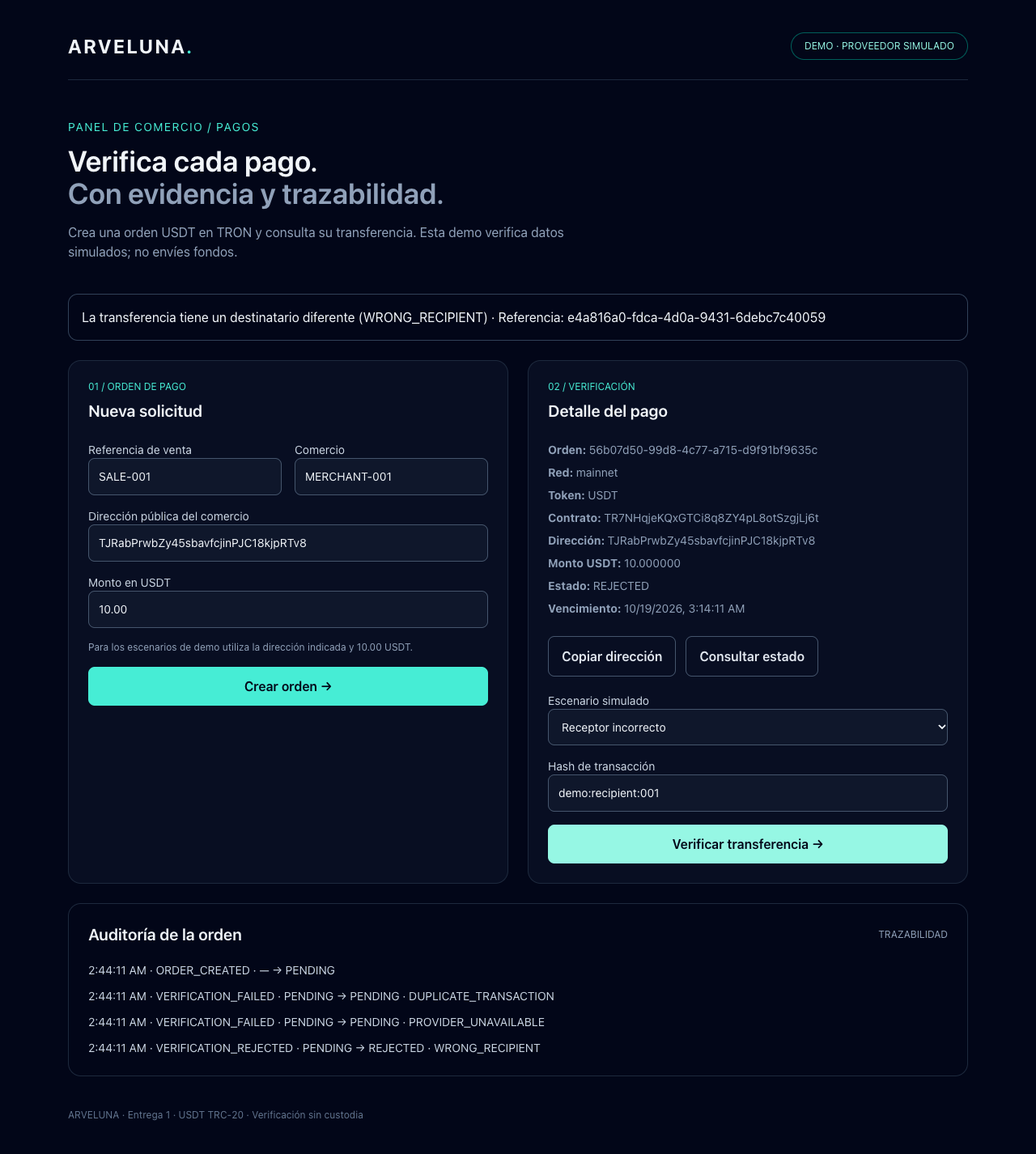
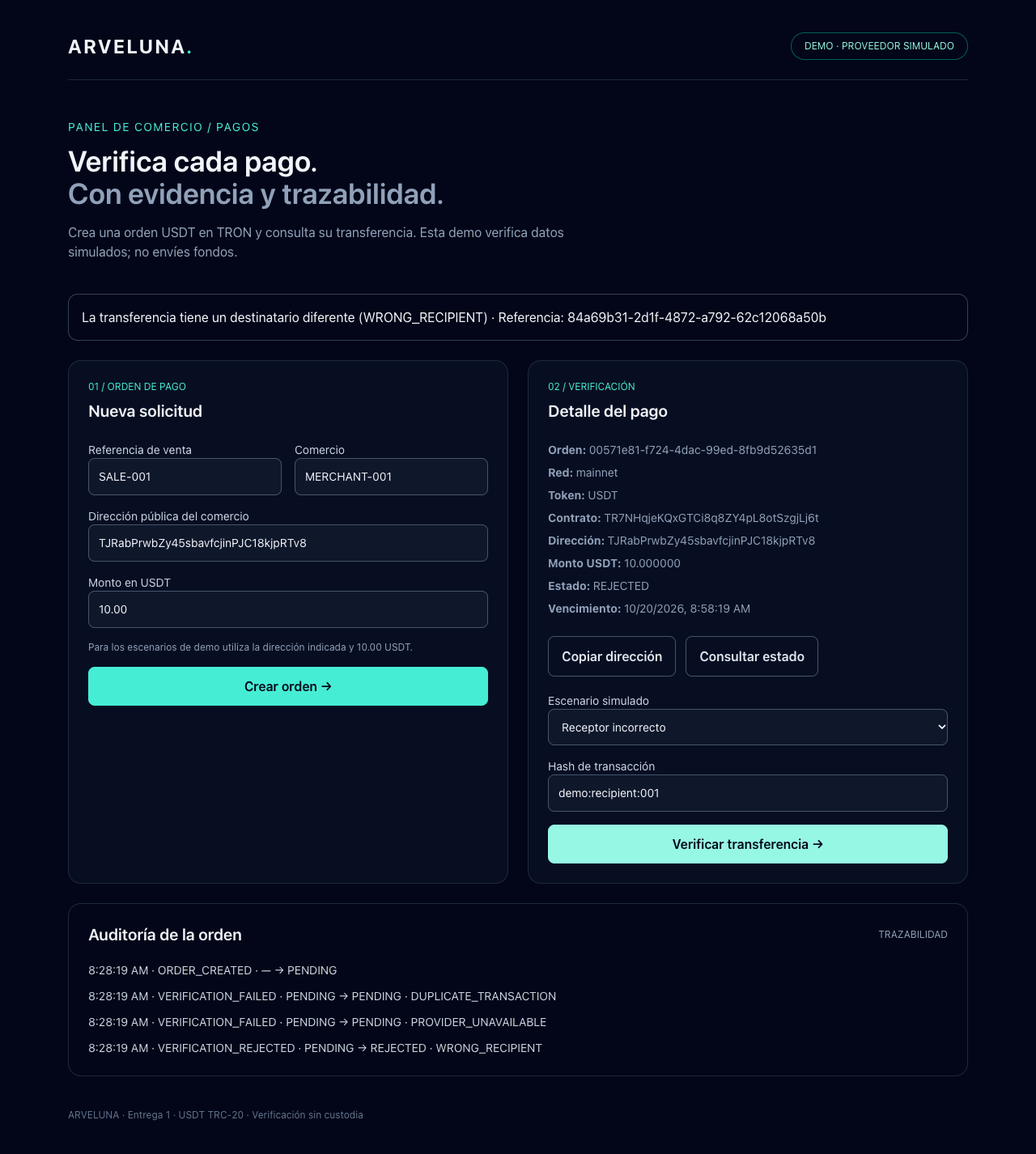
docs: prepare ARVELUNA university delivery

diff --git a/scripts/package-delivery.py b/scripts/package-delivery.py
@@ -1,0 +1,80 @@
+"""Genera el paquete académico desde una lista explícita de fuentes y lo verifica."""
+from pathlib import Path
+import hashlib
+import re
+import shutil
+import tempfile
+import zipfile
+
+ROOT = Path(__file__).resolve().parent.parent
+NAME = 'ENTREGA_1_ARVELUNA'
+DEST = ROOT / NAME
+ARCHIVE = ROOT / 'ARVELUNA_Entrega_1.zip'
+ROOT_FILES = ['README.md', 'ENTREGA.md', 'AGENTS.md', '.env.example', '.gitignore',
+              'package.json', 'package-lock.json', 'docker-compose.yml',
+              'eslint.config.mjs', 'playwright.config.ts']
+DIRECTORIES = ['backend', 'frontend', 'docs', 'scripts']
+FORBIDDEN = {'node_modules', '.git', 'dist', 'coverage', 'test-results',
+             'playwright-report', '__pycache__', '.DS_Store', '.env'}
+EXTENSIONS = {'.md', '.ts', '.js', '.mjs', '.json', '.html', '.css', '.prisma',
+              '.sql', '.toml', '.yml', '.yaml', '.png', '.py', '.txt'}
+
+def selected():
+    result = [Path(name) for name in ROOT_FILES]
+    for directory in DIRECTORIES:
+        for path in (ROOT / directory).rglob('*'):
+            relative = path.relative_to(ROOT)
+            if any(part in FORBIDDEN for part in relative.parts):
+                continue
+            if path.is_file() and path.suffix in EXTENSIONS and relative.as_posix() != 'frontend/public/output.css':
+                if path.is_symlink():
+                    raise RuntimeError(f'Enlace simbólico no permitido: {relative}')
+                result.append(relative)
+    return sorted(set(result))
+
+# El manifiesto está dentro y fuera del ZIP y enumera todos los miembros.
+manifest = ROOT / 'docs/zip-files.txt'
+manifest.touch(exist_ok=True)
+paths = selected()
+manifest.write_text('\n'.join(f'{NAME}/{path.as_posix()}' for path in paths) + '\n')
+if DEST.exists():
+    extras = {p.relative_to(DEST) for p in DEST.rglob('*') if p.is_file()} - set(paths)
+    if extras:
+        raise RuntimeError('La carpeta de entrega contiene archivos ajenos; no se sobrescriben')
+for relative in paths:
+    target = DEST / relative
+    target.parent.mkdir(parents=True, exist_ok=True)
+    shutil.copy2(ROOT / relative, target)
+
+with zipfile.ZipFile(ARCHIVE, 'w', zipfile.ZIP_DEFLATED, compresslevel=9) as archive:
+    for relative in paths:
+        archive.write(DEST / relative, f'{NAME}/{relative.as_posix()}')
+
+patterns = [rb'-----BEGIN (?:RSA |EC |OPENSSH )?PRIVATE KEY-----',
+            rb'AKIA[0-9A-Z]{16}', rb'gh[pousr]_[A-Za-z0-9]{30,}',
+            rb'sk-(?:proj-)?[A-Za-z0-9_-]{30,}']
+extract = Path(tempfile.mkdtemp(prefix='arveluna-zip-review-'))
+with zipfile.ZipFile(ARCHIVE) as archive:
+    assert archive.testzip() is None, 'CRC inválido'
+    assert archive.namelist() == manifest.read_text().splitlines()
+    for item in archive.infolist():
+        path = Path(item.filename)
+        assert not path.is_absolute() and '..' not in path.parts
+        assert path.parts[0] == NAME
+        assert not any(part in FORBIDDEN for part in path.parts)
+        assert not path.name.endswith(('.log', '.zip', '.pem', '.key', '.tmp'))
+        assert not (path.name.startswith('.env') and path.name != '.env.example')
+        data = archive.read(item)
+        # Imágenes se conservan como evidencia; escaneo de secretos en texto.
+        if path.suffix != '.png':
+            assert not any(re.search(pattern, data) for pattern in patterns), f'Posible secreto: {path}'
+            text = data.decode('utf-8')
+            for password in re.findall('mysql' + r'://[^:\s]+:([^@\s]+)@', text):
+                assert password in {'REEMPLAZAR_CON_MYSQL_PASSWORD', '${password}'} or (path.name == 'AGENTS.md' and password == 'arveluna'), f'Credencial en URL: {path}'
+    archive.extractall(extract)
+for relative in paths:
+    assert (extract / NAME / relative).read_bytes() == (ROOT / relative).read_bytes()
+Path('/tmp/arveluna-final-extracted-path').write_text(str(extract / NAME))
+print(f'ZIP: {ARCHIVE.name}; archivos: {len(paths)}; CRC, extracción, comparación byte a byte y escaneo: OK')
+print(f'SHA-256: {hashlib.sha256(ARCHIVE.read_bytes()).hexdigest()}')
+print(f'Copia extraída para prueba: {extract / NAME}')

diff --git a/docs/verification.md b/docs/verification.md
@@ -1,49 +1,52 @@
-# Evidencia de verificación — 19 de octubre de 2026
+# Verificación final — 20 de octubre de 2026
 
-Entorno: macOS ARM64, Node v24.21.0, npm 11.19.0, Docker Desktop / MySQL 8.4, Chrome instalado. Proveedor simulado; no API key ni acceso a blockchain en las pruebas.
+Entorno ejecutado: macOS ARM64, Node v24.21.0, npm 11.19.0, Docker Desktop, MySQL 8.4 y Chrome. Zona de referencia: America/Bogota. Proveedor operativo: simulado. TronGrid permanece como extensión pendiente y no fue probado ni presentado como implementado.
 
-| Comprobación ejecutada            | Resultado final                                                                       |
-| --------------------------------- | ------------------------------------------------------------------------------------- |
-| `npm install`                     | Dependencias de workspaces instaladas y lockfile generado                             |
-| `npm ci` en `/tmp/arveluna-clean` | Instalación limpia sin node_modules ni .env originales; 0 vulnerabilidades reportadas |
-| `npm run db:generate`             | Prisma Client 6.19.3 generado                                                         |
-| `docker compose up -d --wait`     | MySQL iniciado y Healthy                                                              |
-| `npm run db:migrate`              | Migración `202610190001_init` aplicada; repetición sin migraciones pendientes         |
-| `npm run db:seed`                 | Upsert de orden determinista; repetición sin errores                                  |
-| `npm run build`                   | TypeScript estricto y frontend Vite/Tailwind CLI compilados                           |
-| `npm run lint`                    | ESLint y comprobación de dependencias arquitectónicas sin errores                     |
-| `npm test`                        | 18 pruebas, 18 pasan, 0 fallan                                                        |
-| `npm run test:e2e`                | 2 pruebas, 2 pasan: HTTP real, Prisma/MySQL y desconexión del servicio                |
-| `npm run test:browser`            | 2 pruebas, 2 pasan: flujo completo Chrome y renderizado de los 4 diagramas Mermaid    |
-| `npm audit fix` final             | 0 vulnerabilidades; dependencias resueltas en package-lock.json                       |
-| `git check-ignore`                | .env, CSS generado y dist excluidos                                                   |
+## Resultados ejecutados
 
-La copia limpia se creó excluyendo node_modules, .git, .env, dist y resultados de pruebas. Se copió `.env.example` como `.env`. Con el lockfile final se ejecutaron `npm ci`, generación Prisma, build, lint y las 18 pruebas unitarias. Las pruebas HTTP y de navegador se ejecutaron en el proyecto principal con el mismo lockfile y MySQL local.
+| Comprobación                                         | Resultado real                                                                                                                        |
+| ---------------------------------------------------- | ------------------------------------------------------------------------------------------------------------------------------------- |
+| Lectura completa de AGENTS.md y `git status` inicial | Rama main, árbol limpio, commit base `8e8d39b`; sin cambios existentes que sobrescribir                                               |
+| `npm install --package-lock-only --ignore-scripts`   | Lockfile sincronizado, 0 vulnerabilidades reportadas                                                                                  |
+| `npm ci` sobre el ZIP extraído                       | Instalación limpia: 460 paquetes instalados, 0 vulnerabilidades reportadas                                                            |
+| `npm run env:init`, repetido                         | Crea .env privado; segunda ejecución conserva el existente                                                                            |
+| `docker compose … up -d --wait --pull never`         | MySQL local y MySQL de prueba aislado alcanzan Healthy                                                                                |
+| `npm run db:generate`                                | Prisma Client 6.19.3 generado en proyecto y copia extraída                                                                            |
+| `npm run db:migrate` en base existente               | Sin migraciones pendientes; datos conservados                                                                                         |
+| `npm run db:migrate` en MySQL nuevo aislado          | Migración `202610190001_init` aplicada desde cero                                                                                     |
+| `npm run db:seed`                                    | Correcto; repetido dos veces en la base aislada sin errores                                                                           |
+| `npm run lint`                                       | ESLint y regla de dependencias de Clean Architecture pasan en proyecto y copia extraída                                               |
+| `npm run build`                                      | Backend TypeScript y frontend Vite/Tailwind CLI compilan en ambos                                                                     |
+| `npm test`                                           | 18 unitarias pasan, 0 fallan, en proyecto y copia extraída                                                                            |
+| `npm run test:e2e`                                   | 2 pruebas HTTP de integración/e2e pasan en proyecto y copia extraída                                                                  |
+| `npm run test:browser`                               | 2 pruebas pasan: recorrido de usuario y renderizado Mermaid                                                                           |
+| http://localhost:5173                                | HTTP 200, aplicación abierta y probada con Chrome                                                                                     |
+| http://localhost:3000/docs                           | HTTP 200; también Swagger JSON y YAML comprobados por e2e                                                                             |
+| http://localhost:3000/api/health                     | HTTP 200 y `{"status":"ok","service":"payments"}`                                                                                     |
+| `git diff --check`                                   | Sin errores de whitespace                                                                                                             |
+| ZIP: CRC, extracción y comparación byte a byte       | Correctos; lista completa en [zip-files.txt](zip-files.txt)                                                                           |
+| ZIP: exclusiones y escaneo de secretos               | Sin .env, claves privadas, tokens detectados ni credenciales configuradas; excepciones públicas ilustrativas de AGENTS.md conservadas |
 
-## Evidencia funcional
+## Cobertura funcional y patrones
 
-- Creación y consulta de orden desde Chrome.
-- Hash válido y escenario con varios Transfer llegan a CONFIRMED.
-- Misma orden/hash confirmado es idempotente.
-- Auditoría persistente de creación y transiciones; timestamps ordenados dentro de la transacción.
-- Evidencia de pago confirmado y rechazo por receptor persistidas en BlockchainTransaction.
-- Dos órdenes concurrentes disputan un hash: una obtiene 201 y la otra 409; no se aplica dos veces.
-- Proveedor caído devuelve 503 recuperable y conserva PENDING; fallo definitivo devuelve 422 y REJECTED.
-- Strategy sustituible y repositorios en memoria ejecutados en unitarias.
-- Proxy con límite de intentos y timeout; datos inválidos no se reintentan.
-- Identidad singleton de AppConfig, Proxy y cliente HTTP comprobada en el contenedor Nest.
-- requestId propagado al servicio, respuesta, auditoría y logs; errores públicos consistentes.
-- Gateway devuelve COMMUNICATION_ERROR controlado al fallar Payments.
-- Swagger JSON y YAML responden 200.
-- Chrome confirma que no existe desbordamiento horizontal a 390 px.
-- Capturas inspeccionadas: [escritorio](demo-desktop.png) y [móvil](demo-mobile.png).
+Las 18 unitarias verifican montos exactos con BigInt, creación/consulta, contrato, receptor, monto, red, éxito, expiración, idempotencia, duplicados, ausencia de transacción, confirmaciones, múltiples eventos Transfer, Strategy sustituible, repositorios en memoria, límites del Proxy, timeout y datos inválidos sin reintentos.
 
-## Límites y condiciones de reproducción
+Las 2 pruebas HTTP cruzan Gateway → Payments → Prisma/MySQL con proveedor simulado. Verifican error uniforme, requestId, auditoría, evidencia confirmada y rechazada, reutilización singleton de AppConfig/Proxy/cliente HTTP, unicidad concurrente del hash, indisponibilidad recuperable y desconexión controlada de Payments. La clasificación integración/e2e comparte el comando `test:e2e`; no se presenta como dos suites distintas adicionales.
 
-Docker Desktop estaba inicialmente detenido. Se inició y se descargó MySQL con una configuración temporal sin credenciales al atascarse el helper; no se alteró la configuración Docker del usuario. Las operaciones de red, procesos y acceso al socket local requirieron permisos del entorno y fueron aprobadas. No quedaron controles obligatorios bloqueados.
+Las 2 pruebas de navegador comprueban creación, CONFIRMED, auditoría, duplicado, recuperación y rechazo desde el frontend, adaptabilidad a 390 px y renderizado de los cuatro diagramas Mermaid. Capturas renovadas: [escritorio](demo-desktop.png) y [móvil](demo-mobile.png).
 
-Se corrigió el desbloqueo prematuro de botones durante carga. La prueba final utiliza servicios compilados y espera el healthcheck para evitar reinicios del watcher durante las comprobaciones. Los resultados finales anteriores corresponden a ejecuciones completas sin fallos, no a pruebas omitidas.
+C4 fue contrastado con módulos, casos de uso, puertos, repositorios, cliente del Gateway, API del frontend y esquema Prisma. Components precisa que BlockchainTransactionRepository es una capacidad del adaptador cuya consulta se usa para comprobar evidencia en e2e; el caso de uso persiste evidencia mediante el commit atómico. No aparecen servicios futuros como implementados. TronGrid solo figura como sistema externo/extensión pendiente.
 
-No se verificó TronGrid: el adaptador real es opcional y no está implementado. No se ejecutaron transferencias reales, despliegues, autenticación ni pruebas de producción. Las pruebas de navegador dejan órdenes de demostración identificadas como SALE-001; las e2e HTTP eliminan exclusivamente sus propios datos. MySQL conserva datos en el volumen local.
+## Instalación limpia y datos preservados
 
-La carpeta inicial solo contenía AGENTS.md y no tenía Git. AGENTS.md se conservó sin cambios. Se inicializó Git únicamente en la raíz, sin commits, remotos ni push. Los archivos del MVP aparecen como no seguidos (`??`), listos para revisión.
+Se extrajo el paquete en una carpeta temporal sin node_modules, .env, dist ni .git. Allí se ejecutaron instalación, inicialización privada de entorno, generación, lint, build y unitarias. Para comprobar migraciones desde cero se creó exclusivamente el proyecto Compose temporal `arveluna_zip_review`, con MySQL en 3307 y contraseñas aleatorias locales. Se aplicó la migración, se repitió seed y se ejecutó e2e contra esa base. El paquete conserva la configuración habitual 3306; 3307 solo se utilizó en la prueba aislada.
+
+El .env original no se modificó. Para comprobar el Compose actualizado con el volumen previo se usaron sus valores existentes mediante un archivo privado temporal, sin imprimirlos ni copiarlos al paquete. El volumen y los datos originales se preservaron. Solo el proyecto temporal creado para la prueba se elimina al terminar.
+
+## Paquete y límites de la revisión
+
+`python3 scripts/package-delivery.py` copia una lista explícita de fuentes y configura el ZIP con una sola carpeta raíz ENTREGA_1_ARVELUNA. Comprueba CRC, rutas seguras, exclusiones, patrones de claves/tokens, URLs MySQL y equivalencia de archivos al extraer. El manifiesto enumera 59 archivos. El escaneo no detectó secretos; no constituye una garantía universal frente a todos los formatos posibles. AGENTS.md se conserva íntegro y contiene ejemplos públicos originales de configuración, no credenciales privadas del entorno.
+
+No se distribuyen node_modules, .env, .git, dist, coverage, logs, archivos temporales ni volúmenes/datos MySQL. Las capturas son evidencia visual de escenarios simulados. La documentación y el manifiesto se actualizaron después de ejecutar las pruebas; el ZIP final se vuelve a extraer y comparar. No se modificó la lógica de pagos para esta preparación.
+
+Limitaciones: demo local sin autenticación, autorización, rate limiting ni validación Base58Check; sin monitor blockchain automático, sin pruebas de producción y sin TronGrid implementado. No se movieron fondos ni se usaron API keys. No se hizo commit, push ni publicación. No quedan verificaciones solicitadas bloqueadas por el entorno.

diff --git a/docs/patterns.md b/docs/patterns.md
@@ -2,14 +2,16 @@
 
 Rutas relativas a la raíz. En Payments, el prefijo abreviado `P/` significa `backend/apps/payments-service/src/`.
 
-| Patrón               | Problema / archivos                                                                                                  | Flujo y evidencia                                                                       | Trade-off / Clean Architecture                                                                   |
-| -------------------- | -------------------------------------------------------------------------------------------------------------------- | --------------------------------------------------------------------------------------- | ------------------------------------------------------------------------------------------------ |
-| Microservices        | Aislar pagos: `backend/apps/api-gateway/src/main.ts`, `P/main.ts`                                                    | Dos procesos, healthchecks; `backend/test/e2e/http.test.ts` cruza HTTP real             | Más procesos, contratos y observabilidad; aplicación independiente de transporte                 |
-| API Gateway          | Un punto de entrada: `backend/apps/api-gateway/src/main.ts`                                                          | Frontend → Gateway → Payments; propaga requestId, timeout y error 503; e2e              | Agrega salto y posible cuello de botella; no decide pagos                                        |
-| Database per Service | Evitar acoplamiento por tablas: `P/infrastructure/database/prisma.repositories.ts`, `backend/prisma/schema.prisma`   | Solo Payments importa Prisma; evidencia persistida en e2e                               | Dificulta transacciones distribuidas; saleId/merchantId son referencias simples                  |
-| Strategy             | Sustituir política: `P/application/ports/ports.ts`, `P/application/tron-usdt-verification.strategy.ts`               | VerifyPayment → estrategia; prueba «Strategy sustituible»                               | Interfaces adicionales; caso de uso depende del puerto                                           |
-| Proxy                | Resiliencia: `P/infrastructure/blockchain/provider.proxy.ts`                                                         | Timeout, retry limitado y traducción; pruebas de timeout y número de intentos           | Retries añaden latencia; errores de negocio definitivos no se reintentan                         |
-| Singleton DI         | Reutilizar recursos: `P/presentation/routes-or-modules/payments.module.ts`, `P/infrastructure/config/config.ts`      | Factory providers de alcance predeterminado; e2e compara identidad de AppConfig y Proxy | Estado mutable compartido sería difícil de probar; configuración inmutable y composición externa |
-| Repository / DIP     | Independizar casos de uso de SQL: `P/application/ports/ports.ts`, `P/infrastructure/database/prisma.repositories.ts` | Tests usan `backend/test/support/memory.ts`; e2e usa Prisma real                        | Más abstracciones; infraestructura implementa puertos de aplicación                              |
+| Patrón               | Problema / archivos                                                                                                  | Flujo y evidencia                                                                                           | Trade-off / Clean Architecture                                                                   |
+| -------------------- | -------------------------------------------------------------------------------------------------------------------- | ----------------------------------------------------------------------------------------------------------- | ------------------------------------------------------------------------------------------------ |
+| Microservices        | Aislar pagos: `backend/apps/api-gateway/src/main.ts`, `P/main.ts`                                                    | Dos procesos, healthchecks; `backend/test/e2e/http.test.ts` cruza HTTP real                                 | Más procesos, contratos y observabilidad; aplicación independiente de transporte                 |
+| API Gateway          | Un punto de entrada: `backend/apps/api-gateway/src/main.ts`                                                          | Frontend → Gateway → Payments; propaga requestId, timeout y error 503; e2e                                  | Agrega salto y posible cuello de botella; no decide pagos                                        |
+| Database per Service | Evitar acoplamiento por tablas: `P/infrastructure/database/prisma.repositories.ts`, `backend/prisma/schema.prisma`   | Solo Payments importa Prisma; evidencia persistida en e2e                                                   | Dificulta transacciones distribuidas; saleId/merchantId son referencias simples                  |
+| Strategy             | Sustituir política: `P/application/ports/ports.ts`, `P/application/tron-usdt-verification.strategy.ts`               | VerifyPayment → estrategia; prueba «Strategy sustituible»                                                   | Interfaces adicionales; caso de uso depende del puerto                                           |
+| Proxy                | Resiliencia: `P/infrastructure/blockchain/provider.proxy.ts`                                                         | Timeout, retry limitado y traducción; pruebas de timeout y número de intentos                               | Retries añaden latencia; errores de negocio definitivos no se reintentan                         |
+| Singleton DI         | Reutilizar recursos: `P/presentation/routes-or-modules/payments.module.ts`, `P/infrastructure/config/config.ts`      | Factory providers de alcance predeterminado; e2e compara identidad de AppConfig, Proxy y PaymentsHttpClient | Estado mutable compartido sería difícil de probar; configuración inmutable y composición externa |
+| Repository / DIP     | Independizar casos de uso de SQL: `P/application/ports/ports.ts`, `P/infrastructure/database/prisma.repositories.ts` | Tests usan `backend/test/support/memory.ts`; e2e usa Prisma real                                            | Más abstracciones; infraestructura implementa puertos de aplicación                              |
 
 El cliente Prisma compartido pertenece al repositorio singleton y se desconecta al cerrar Nest. El cliente HTTP del Gateway es un provider singleton; usa `fetch` y su pool de conexiones del proceso. El AsyncLocalStorage en `backend/libs/contracts/http.ts` lleva contexto de petición sin un objeto global mutable por solicitud.
+
+El proveedor operativo es exclusivamente `SimulatedBlockchainProvider`, construido en PaymentsModule y envuelto por el Proxy. No existe un TronGridClient implementado; las variables TRONGRID son una reserva para una extensión pendiente.

diff --git a/README.md b/README.md
@@ -9,8 +9,8 @@ MVP universitario de verificación de pagos USDT TRC-20. Crea órdenes, consulta
 Requisitos: Node.js **24 o superior**, npm 11, Docker Desktop iniciado y puertos 3000, 3001, 3306 y 5173 libres. Chrome instalado para la prueba de navegador; las pruebas unitarias no requieren Docker ni internet.
 
 ```bash
-cp .env.example .env
-npm install
+npm ci
+npm run env:init
 docker compose up -d --wait
 npm run db:generate
 npm run db:migrate
@@ -20,7 +20,9 @@ npm run dev
 
 Abrir **http://localhost:5173**. Swagger público: **http://localhost:3000/docs**. Swagger interno: http://localhost:3001/docs. Los procesos se enlazan a loopback. `Ctrl+C` detiene las aplicaciones; `docker compose stop` detiene MySQL preservando los datos.
 
-Para repetir una instalación con las versiones exactas del lockfile, sustituir `npm install` por `npm ci`. No ejecutar migraciones contra bases ajenas al proyecto. Las credenciales de Compose son exclusivamente de desarrollo.
+`npm ci` instala las versiones exactas del lockfile. `npm run env:init` crea un `.env` privado con contraseñas aleatorias y no sobrescribe un `.env` existente. También puede copiarse `.env.example` manualmente y completar MYSQL_PASSWORD, MYSQL_ROOT_PASSWORD y DATABASE_URL coherentemente. No ejecutar migraciones contra bases ajenas al proyecto.
+
+Si ya existe una base local, conservar sus credenciales: las variables MYSQL de Compose deben coincidir con las utilizadas al crear el volumen. Cambiar variables no cambia las contraseñas de un volumen existente. No borrar el volumen para preparar esta entrega.
 
 ## Demo reproducible
 
@@ -85,13 +87,14 @@ El esquema mantiene los campos mínimos y enums exigidos. `amountBaseUnits` usa 
 
 ## Configuración
 
-`.env.example` contiene valores seguros; `.env` está ignorado. No copiar claves privadas ni semillas. Se valida configuración al iniciar Payments (URL MySQL, red, contrato, decimales y límites numéricos); el Gateway valida su URL interna. La configuración de entorno real tiene precedencia sobre `.env`.
+`.env.example` contiene marcadores sin contraseñas ni API keys; `.env` está ignorado. No copiar claves privadas ni semillas. Se valida configuración al iniciar Payments (URL MySQL, red, contrato, decimales y límites numéricos); el Gateway valida su URL interna. La configuración de entorno real tiene precedencia sobre `.env`.
 
 | Variable                                | Uso / valor predeterminado                                      |
 | --------------------------------------- | --------------------------------------------------------------- |
 | `NODE_ENV`                              | development                                                     |
 | `GATEWAY_PORT`, `PAYMENTS_PORT`         | 3000 / 3001                                                     |
 | `PAYMENTS_SERVICE_URL`                  | http://localhost:3001                                           |
+| `MYSQL_PASSWORD`, `MYSQL_ROOT_PASSWORD` | Generadas localmente por `env:init`; obligatorias para Compose  |
 | `DATABASE_URL`                          | MySQL local definido en Compose                                 |
 | `BLOCKCHAIN_PROVIDER`                   | simulated; único adaptador concreto habilitado                  |
 | `TRON_NETWORK`                          | mainnet; también shasta/nile como nombres de red                |
@@ -151,7 +154,7 @@ npm run test:e2e
 npm run test:browser
 ```
 
-`test:e2e` requiere MySQL migrado y usa puertos efímeros, HTTP real, Prisma y el proveedor simulado. Solo elimina sus propias órdenes/evidencias. `test:browser` compila e inicia los servicios y el preview del frontend, espera el healthcheck y utiliza Chrome y prueba la interfaz de escritorio/móvil. Se puede ajustar el ejecutable en `playwright.config.ts` o definir `CHROME_PATH`; no requiere descargar navegadores. Las capturas quedan en `docs/demo-desktop.png` y `docs/demo-mobile.png`.
+`test:e2e` requiere MySQL migrado y usa puertos efímeros, HTTP real, Prisma y el proveedor simulado. Solo elimina sus propias órdenes/evidencias. `test:browser` compila e inicia los servicios y el preview del frontend, espera el healthcheck y utiliza Chrome para probar la interfaz de escritorio/móvil. Se puede ajustar el ejecutable en `playwright.config.ts` o definir `CHROME_PATH`; no requiere descargar navegadores. Las capturas quedan en `docs/demo-desktop.png` y `docs/demo-mobile.png`.
 
 Para ejecutar la versión compilada: `npm run build` y luego `npm start`.
 
@@ -175,3 +178,7 @@ Los diagramas Mermaid se renderizan en visores compatibles y se verifican median
 Demo local sin autenticación, autorización, rate limiting, escaneo de cadena ni verificación criptográfica de direcciones Base58Check: se valida su forma. No exponer los servicios internos ni desplegar esta configuración de desarrollo en producción. La vigencia se evalúa al solicitar verificación; no hay proceso de expiración automática ni polling blockchain. Una orden CONFIRMING puede consultarse/verificarse manualmente; el simulador no avanza bloques por sí mismo. El Proxy limita el tiempo de espera, pero no cancela el trabajo del adaptador simulado; una integración de red debería usar AbortSignal.
 
 El modo simulado garantiza una demo reproducible; no sustituye una integración real con TronGrid. La revisión npm y sus resultados están registrados en la evidencia; no se afirma preparación de producción. No hay implementaciones de Sales, Identity, Inventory, Cash ni transferencias de fondos.
+
+## Paquete para la universidad
+
+Consultar [ENTREGA.md](ENTREGA.md). La carpeta `ENTREGA_1_ARVELUNA` y el ZIP `ARVELUNA_Entrega_1.zip` contienen fuentes, pruebas, documentación y configuración de ejemplo; excluyen dependencias, `.env`, credenciales, compilados y datos locales. TronGrid es una extensión pendiente.

diff --git a/ENTREGA.md b/ENTREGA.md
@@ -1,0 +1,62 @@
+# ARVELUNA — Entrega 1
+
+**Integrantes:** Alberto Russell y Yalal Ajram Elneser.
+
+## Qué se entrega
+
+MVP ejecutable de verificación de órdenes de pago USDT TRC-20: API Gateway y Payments Service NestJS separados, Payments DB MySQL con Prisma y migraciones, proveedor simulado, frontend HTML/JavaScript/Tailwind CLI, pruebas automatizadas y documentación de defensa.
+
+Incluye creación/consulta de órdenes, verificación autoritativa simulada del hash, validación de red/token/receptor/monto/confirmaciones/vigencia, estados controlados, idempotencia, evidencia persistente, auditoría y errores recuperables.
+
+## Cómo ejecutar después de descomprimir
+
+Requisitos: Node.js 24+, npm 11 y Docker Desktop activo. Chrome para pruebas de navegador (configurable con CHROME_PATH).
+
+```bash
+cd ENTREGA_1_ARVELUNA
+npm ci
+npm run env:init
+docker compose up -d --wait
+npm run db:generate
+npm run db:migrate
+npm run db:seed
+npm run build
+npm start
+```
+
+`env:init` genera contraseñas locales aleatorias y un `.env` privado; no sobrescribe un archivo existente. El ZIP no contiene `.env` ni contraseñas configuradas. Si el puerto 3306 está ocupado por una base previa, detener únicamente su servicio o configurar otra instancia sin eliminar sus datos. Las migraciones se aplican exclusivamente a la base local indicada en DATABASE_URL.
+
+## Enlaces locales
+
+- Frontend: http://localhost:5173
+- Swagger público: http://localhost:3000/docs
+- Healthcheck Gateway → Payments → MySQL: http://localhost:3000/api/health
+- Swagger interno: http://localhost:3001/docs
+
+Crear una orden con los valores del formulario (10.00 USDT y dirección de demo) y verificar un hash nuevo `demo:valid:entrega-001`. Ver el [guion completo](docs/demo-script.md), con pago válido, hash duplicado, rechazo y recuperación.
+
+## Patrones y arquitectura
+
+Microservices, API Gateway, Database per Service, Strategy, Proxy, Singleton administrado por Nest y Repository/Dependency Inversion. La [tabla de patrones](docs/patterns.md) identifica archivos, pruebas y trade-offs. Payments separa dominio, aplicación, infraestructura y presentación; el Gateway no importa Prisma.
+
+Diagramas: [C4 Context](docs/c4-context.md), [Containers](docs/c4-containers.md), [Components](docs/c4-components.md) y [secuencia](docs/sequence-payment-verification.md).
+
+## Verificación
+
+```bash
+npm run lint
+npm run build
+npm test
+npm run test:e2e
+npm run test:browser
+```
+
+Resultados ejecutados: 18 unitarias, 2 pruebas HTTP de integración/e2e y 2 pruebas de navegador/diagramas superadas; lint, build, migraciones y seed correctos. Instalación limpia del ZIP probada. Las tres URLs públicas respondieron HTTP 200.
+
+Los resultados de esta revisión y la validación del ZIP se registran en [docs/verification.md](docs/verification.md). Las pruebas HTTP requieren MySQL migrado; las de navegador compilan, esperan el healthcheck y verifican frontend y diagramas. Las capturas incluidas son evidencia de demo, no datos de MySQL.
+
+## Limitaciones
+
+**El proveedor operativo es el simulado. TronGrid no está implementado: es una extensión pendiente.** No se consultó la cadena real ni se ejecutaron transferencias. Demo local sin autenticación ni preparación de producción. La expiración se procesa al verificar; no existe un monitor blockchain automático. No se implementan ventas, inventario, caja ni identidad.
+
+El paquete excluye node_modules, .env, .git, dist, coverage, logs, archivos temporales, volúmenes y datos locales. AGENTS.md se conserva íntegro, incluidos sus ejemplos ilustrativos de configuración; estos no son credenciales privadas del entorno.

diff --git a/docs/demo-script.md b/docs/demo-script.md
@@ -4,9 +4,9 @@ Preparación: seguir README; MySQL saludable, migraciones aplicadas, `npm run de
 
 1. **0:00–1:00 — Contexto y contenedores.** Abrir `c4-context.md` y `c4-containers.md`. Explicar actores, procesos separados y propiedad exclusiva de Payments DB. No se mueve dinero.
 2. **1:00–2:00 — Clean Architecture.** Mostrar `backend/apps/payments-service/src`: domain, application, infrastructure y presentation. Abrir puertos y caso de uso; no importan Prisma ni Nest.
-3. **2:00–3:00 — Crear orden.** En frontend pulsar Crear orden. Mostrar red, contrato distinto del receptor, monto exacto en unidades base, vencimiento y estado PENDING.
+3. **2:00–3:00 — Crear orden.** En frontend pulsar Crear orden. Mostrar red, contrato distinto del receptor, monto decimal exacto (almacenado en unidades base), vencimiento y estado PENDING.
 4. **3:00–4:00 — Confirmar.** Usar `demo:valid:defensa-001` y verificar. Mostrar CONFIRMED y eventos PENDING → DETECTED → CONFIRMED. Repetir mismo hash en la misma orden: respuesta idempotente.
-5. **4:00–5:00 — Persistencia.** Consultar auditoría en Swagger; abrir `PrismaPaymentRepositories.commit` y señalar transacción SQL que guarda orden, evidencia y eventos. Opcional: `docker compose exec mysql mysql -uarveluna -parveluna arveluna_payments -e 'SELECT id,status,transactionHash FROM PaymentOrder;'`.
+5. **4:00–5:00 — Persistencia.** Consultar auditoría en Swagger; abrir `PrismaPaymentRepositories.commit` y señalar transacción SQL que guarda orden, evidencia y eventos. Opcional: `docker compose exec mysql sh -c 'MYSQL_PWD="$MYSQL_PASSWORD" mysql -u"$MYSQL_USER" "$MYSQL_DATABASE" -e "SELECT id,status,transactionHash FROM PaymentOrder;"' `.
 6. **5:00–6:00 — Duplicado.** Crear otra orden y verificar `demo:valid:defensa-001`. Mostrar DUPLICATE_TRANSACTION; la segunda orden queda PENDING. Señalar restricción única y prueba concurrente e2e.
 7. **6:00–7:00 — Error recuperable.** En esa orden usar `demo:unavailable:defensa-001`. Mostrar 503, retryable, requestId y auditoría; la orden no se rechaza. Cambiar a `demo:valid:defensa-002` y confirmar.
 8. **7:00–8:00 — Rechazo definitivo.** Crear tercera orden y usar `demo:recipient:defensa-001`. Mostrar WRONG_RECIPIENT y REJECTED. Para varios eventos crear otra orden con `demo:multi:defensa-001`; no se acepta automáticamente el primer Transfer.
@@ -14,3 +14,5 @@ Preparación: seguir README; MySQL saludable, migraciones aplicadas, `npm run de
 10. **9:00–10:00 — Trade-offs.** Microservicios añade despliegues; Gateway añade salto; DB por servicio limita transacciones distribuidas; Strategy añade abstracción; Proxy aumenta latencia de fallo; Singleton exige evitar estado mutable; simulado hace la demo reproducible y no prueba TronGrid.
 
 Si se repite la defensa, cambiar sufijo de los hashes para evitar conflictos con ejecuciones anteriores. No borrar datos del usuario. El escenario timeout espera 200 ms: con el timeout predeterminado termina como indisponibilidad simulada; para observar el corte temporal real ejecutar con `PROVIDER_TIMEOUT_MS=50`. La prueba unitaria lo comprueba con 10 ms.
+
+TronGrid es una extensión pendiente: no presentar consultas reales a TRON como parte de la demo implementada.

diff --git a/docs/c4-components.md b/docs/c4-components.md
@@ -6,6 +6,7 @@ flowchart TB
  UC --> RULES["PaymentOrder / reglas de monto y transición"]
  UC --> RP["PaymentOrderRepository / PaymentAuditRepository"]
  PR["PrismaPaymentRepositories"] -.->|Implementa| RP
+ PR --> TX["BlockchainTransactionRepository: consulta de evidencia"]
  PR --> DB[("Payments DB")]
  UC --> SP["PaymentVerificationStrategy"]
  S["TronUsdtVerificationStrategy"] -.->|Implementa| SP
@@ -21,3 +22,5 @@ flowchart TB
 ```
 
 Las flechas discontinuas indican implementación de un puerto. El módulo de composición es la única pieza de presentación que construye adaptadores concretos. El dominio no importa NestJS, Prisma ni configuración de entorno. La estrategia vive en aplicación porque implementa un puerto de aplicación; las reglas puras de dinero y transición viven en dominio.
+
+`BlockchainTransactionRepository` está implementado por PrismaPaymentRepositories; el flujo de verificación persiste evidencia a través del commit atómico de PaymentOrderRepository. Su consulta `find` se usa en la prueba e2e para comprobar la evidencia, no es una consulta directa adicional del caso de uso.
